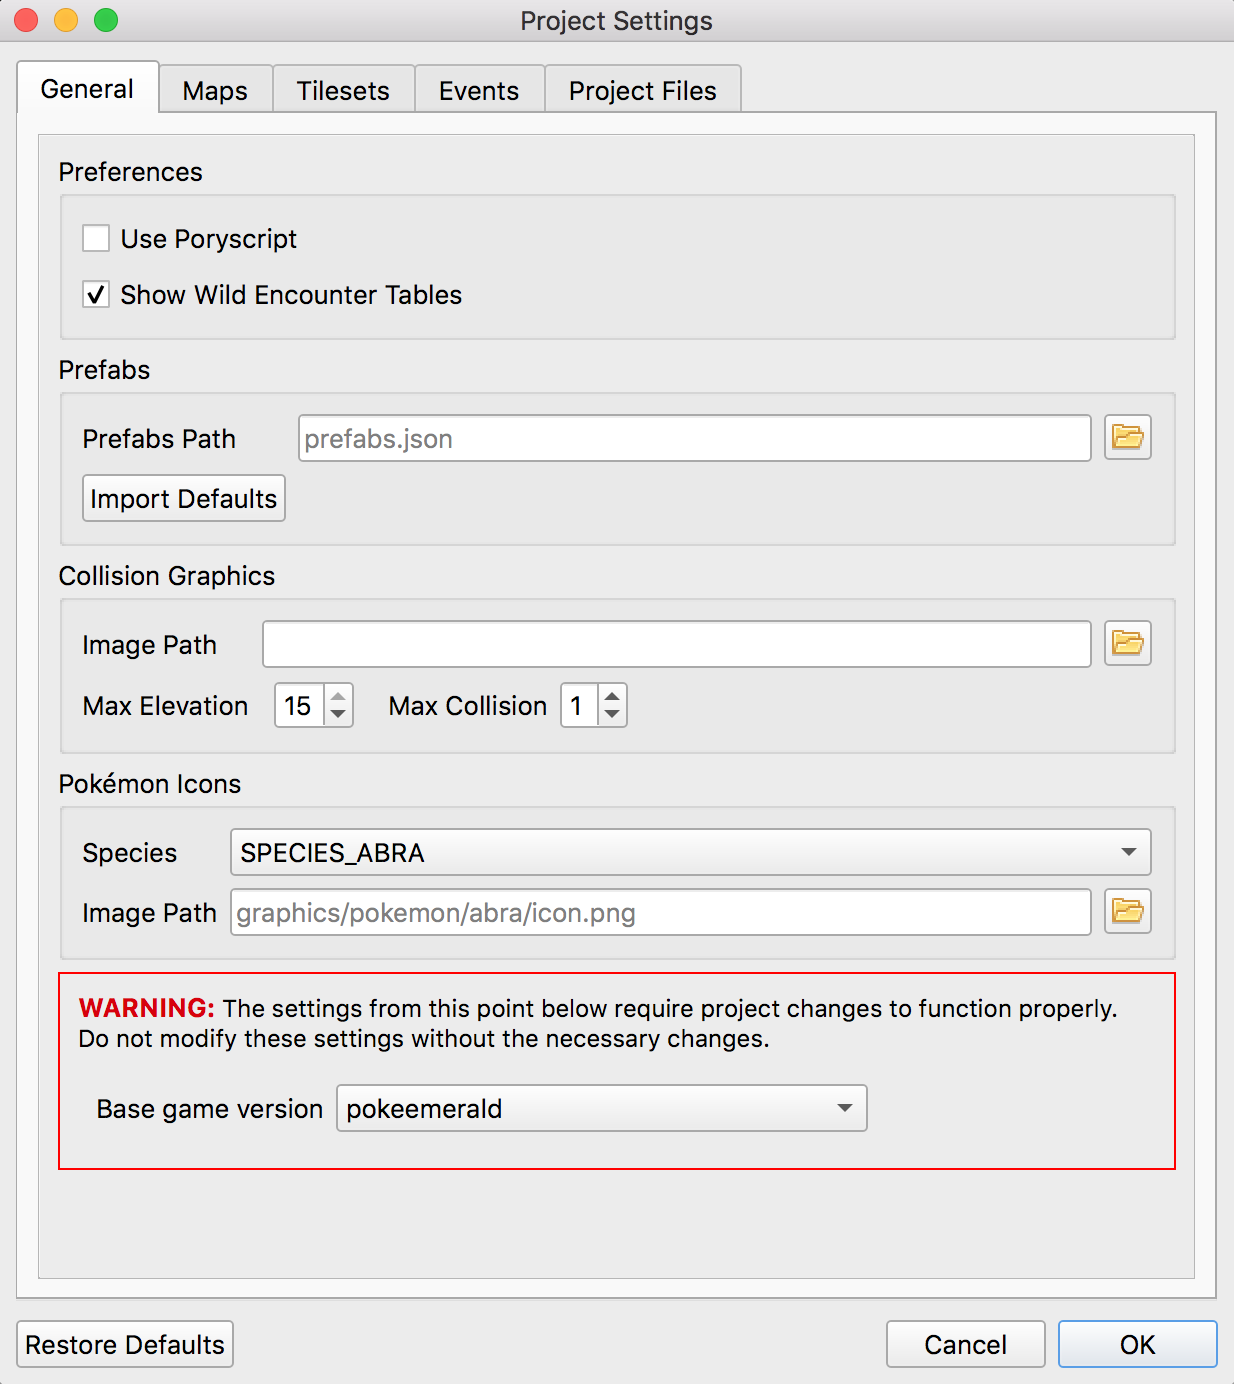
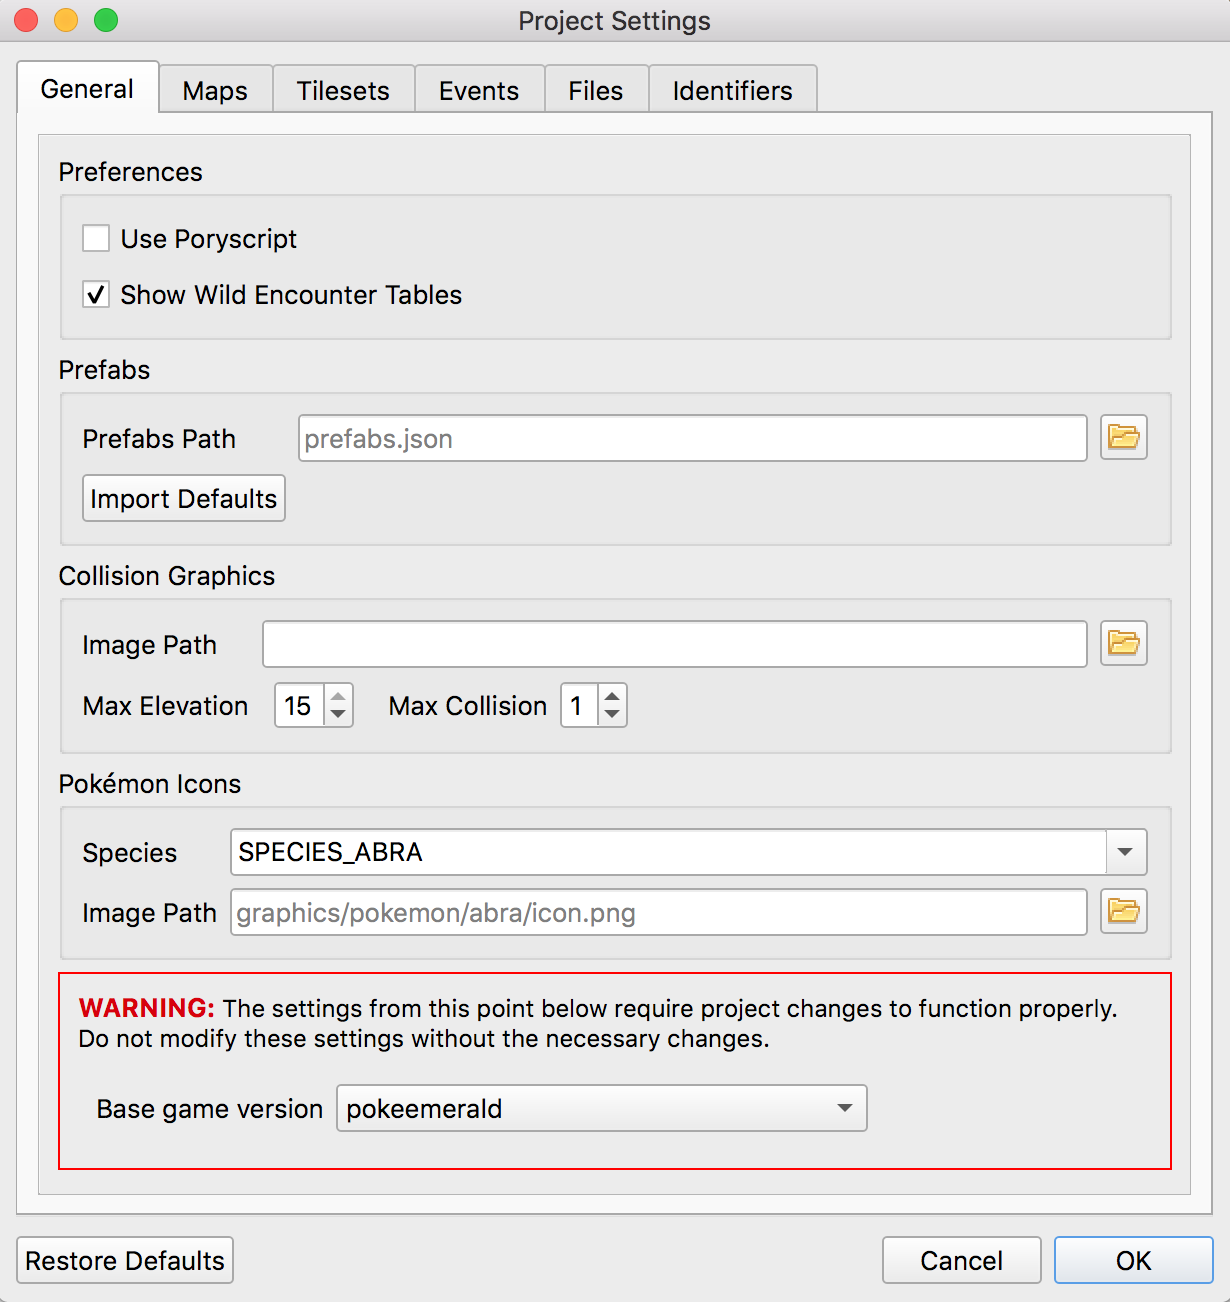
Add new settings to manual

diff --git a/docsrc/manual/settings-and-options.rst b/docsrc/manual/settings-and-options.rst
@@ -23,7 +23,7 @@ Project settings
    * :ref:`Maps <maps>`
    * :ref:`Tilesets <tilesets>`
    * :ref:`Events <events>`
-   * :ref:`Project Files <project-files>`
+   * :ref:`Files & Identifiers <files-identifiers>`
 
 A config file for project-specific settings is also created when opening a project in porymap for the first time. It is stored in your project root as ``porymap.project.cfg``. You may want to force commit this file so that other users will automatically have access to your project settings.
 
@@ -98,32 +98,38 @@ Maps
 .. figure:: images/settings-and-options/tab-maps.png
    :alt: Maps tab
 
-Border Metatiles
-   This is list of metatile ID values that will be used to fill the border on new maps. The spin boxes correspond to the top-left, top-right, bottom-left, and bottom-right border metatiles respectively.
+Map Data Defaults
+   Border Metatiles
+      This is list of metatile ID values that will be used to fill the border on new maps. The spin boxes correspond to the top-left, top-right, bottom-left, and bottom-right border metatiles respectively.
 
-   If ``Enable Custom Border Size`` is checked, this will instead be a comma-separated list of metatile ID values that will be used to fill the border on new maps. Values in the list will be read sequentially to fill the new border left-to-right top-to-bottom. If the number of metatiles in the border for a new map is not the same as the number of values in the list then the border will be filled with metatile ID ``0x000`` instead.
+      If ``Enable Custom Border Size`` is checked, this will instead be a comma-separated list of metatile ID values that will be used to fill the border on new maps. Values in the list will be read sequentially to fill the new border left-to-right top-to-bottom. If the number of metatiles in the border for a new map is not the same as the number of values in the list then the border will be filled with metatile ID ``0x000`` instead.
 
-   Defaults to ``0x014``, ``0x015``, ``0x01C``, ``0x01D`` for ``pokefirered``, and ``0x1D4``, ``0x1D5``, ``0x1DC``, ``0x1DD`` for other versions.
+      Defaults to ``0x014``, ``0x015``, ``0x01C``, ``0x01D`` for ``pokefirered``, and ``0x1D4``, ``0x1D5``, ``0x1DC``, ``0x1DD`` for other versions.
 
-Fill Metatile
-   This is the metatile ID value that will be used to fill new maps.
+   Metatile ID
+      This is the metatile ID value that will be used to fill new maps.
 
-   Defaults to ``0x1``.
+      Defaults to ``0x1``.
 
-Elevation
-   This is the elevation that will be used to fill new maps. It will also be used to set the default selection on the Collision tab when a map is opened.
+   Collision
+      This is the collision value that will be used to fill new maps. It will also be used to set the default selection on the Collision tab when the project is first opened.
 
-   Defaults to ``3``.
+      Defaults to ``0``.
 
-Collision
-   This is the collision that will be used to fill new maps. It will also be used to set the default selection on the Collision tab when a map is opened.
+   Elevation
+      This is the elevation value that will be used to fill new maps. It will also be used to set the default selection on the Collision tab when the project is first opened.
 
-   Defaults to ``0``.
+      Defaults to ``3``.
 
-Create separate text file
-   If this is checked, a ``text.inc`` (or ``text.pory``) file will be created alongside new maps.
+   Create separate text file
+      If this is checked, a ``text.inc`` (or ``text.pory``) file will be created alongside new maps.
 
-   Defaults to ``unchecked`` for ``pokeemerald`` and ``checked`` for other versions.
+      Defaults to ``unchecked`` for ``pokeemerald`` and ``checked`` for other versions.
+
+Map Data Layout
+   Each of these three settings are bit masks that will be used to read and write an attribute of the data that makes up each map space (metatile ID, collision, and elevation). A warning will be displayed if any of the masks overlap. Their values may be read from ``#define`` s in your project, in which case editing will be disabled and you can change their values by modifying them in your project.
+
+   Default to being read from ``MAPGRID_METATILE_ID_MASK``, ``MAPGRID_COLLISION_MASK``, and ``MAPGRID_ELEVATION_MASK``. If they can't be read, they default to ``0x3FF``, ``0xC00``, and ``0xF000`` respectively.
 
 Enable 'Floor Number'
    If this is checked, a ``Floor Number`` option will become available on the ``Header`` tab and on the new map prompt. For more information see `Editing Map Headers <https://huderlem.github.io/porymap/manual/editing-map-header.html>`_.
@@ -172,30 +178,27 @@ Attributes size
 Attribute masks
    Each of these four settings are bit masks that will be used to read and write a specific metatile attribute from the metatile attributes data. If you are instead importing metatile attribute data from AdvanceMap, a default mask value will be used to read the data, and the mask value specified here will be used to write the new file.
 
-   If any of the mask values are set to ``0x0``, the corresponding option in the Tileset Editor will be removed. The maximum for all the attribute masks is determined by the Attributes size setting.
+   If any of the mask values are set to ``0x0``, the corresponding option in the Tileset Editor will be removed. The maximum for all the attribute masks is determined by the Attributes size setting. A warning will be displayed if any of the masks overlap.
 
    - Metatile Behavior mask
       This is the mask value for the ``Metatile Behavior`` metatile attribute.
 
-      Defaults to ``0x1FF`` for ``pokefirered``, and ``0xFF`` for other versions.
+      Defaults to being read from ``sMetatileAttrMasks`` or ``METATILE_ATTR_BEHAVIOR_MASK``. If these can't be read, defaults to ``0x1FF`` for ``pokefirered``, and ``0xFF`` for other versions.
 
    - Layer Type mask
       This is the mask value for the ``Layer Type`` metatile attribute. If the value is set to ``0x0`` the ``Layer Type`` option will be disabled in the Tileset Editor, and all metatiles will be treated in the editor as if they had the ``Normal`` layer type.
 
-      Defaults to ``0x60000000`` for ``pokefirered`` and ``0xF000`` for other versions.
+      Defaults to being read from ``sMetatileAttrMasks`` or ``METATILE_ATTR_LAYER_MASK``. If these can't be read, defaults to ``0x60000000`` for ``pokefirered``, and ``0xF000`` for other versions.
 
    - Encounter Type mask
       This is the mask value for the ``Encounter Type`` metatile attribute.
 
-      Defaults to ``0x7000000`` for ``pokefirered`` and ``0x0`` for other versions.
+      Defaults to being read from ``sMetatileAttrMasks``. If this can't be read, defaults to ``0x7000000`` for ``pokefirered``, and ``0x0`` for other versions.
 
    - Terrain Type mask
       This is the mask value for the ``Terrain Type`` metatile attribute.
 
-      Defaults to ``0x3E00`` for ``pokefirered`` and ``0x0`` for other versions.
-
-   .. warning::
-      If any of the metatile attribute masks have overlapping or discontinous bits they may behave in unexpected ways. A warning will be logged in the Porymap log file if this happens
+      Defaults to being read from ``sMetatileAttrMasks``. If this can't be read, defaults to ``0x3E00`` for ``pokefirered``, and ``0x0`` for other versions.
 
 Output 'callback' and 'isCompressed' fields
    If these are checked, then ``callback`` and ``isCompressed`` fields will be output in the C data for new tilesets. Their default values will be ``NULL`` and ``TRUE``, respectively. 
@@ -216,6 +219,11 @@ Default Icons
    Events in the ``Objects`` group will only use this icon if there are no graphics associated with their ``Sprite`` field.
 
    The filepaths default to empty, which will use `Porymap's original icons <https://github.com/huderlem/porymap/blob/master/resources/images/Entities_16x16.png>`_.
+
+Warp Behaviors
+   By default, Warp Events only function as exits if they're positioned on a metatile whose Metatile Behavior is treated specially in your project's code. If any Warp Events are positioned on a metatile that doesn't have one of these behaviors they will display a warning. Here you can disable that warning, or edit the list of behavior names that will silence the warning.
+
+   Defaults to ``unchecked``, i.e. the warning is enabled. The list of behaviors is initially populated with all the vanilla warp behavior names across pokeemerald, pokefirered, and pokeruby.
 
 Enable Clone Objects
    If this is checked Clone Object Events will be available on the ``Events`` tab. For more information see `Clone Object Events <https://huderlem.github.io/porymap/manual/editing-map-events.html#clone-object-events>`_.
@@ -248,15 +256,22 @@ Enable 'Repsawn Map/NPC' for Heal Locations
    Defaults to ``checked`` for ``pokefirered`` and ``unchecked`` for other versions.
 
 
-.. _project-files:
+.. _files-identifiers:
 
-Project Files
--------------
+Files & Identifiers
+-------------------
 
-.. figure:: images/settings-and-options/tab-project-files.png
-   :alt: Project Files tab
+.. figure:: images/settings-and-options/tab-files.png
+   :alt: Files tab
 
-This is a list of the files and folders Porymap expects from your project. Each can be overridden by typing a new path or selecting a file/folder with the folder button. If the file/folder doesn't exist when the project is loaded then the default path will be used instead.
+.. figure:: images/settings-and-options/tab-identifiers.png
+   :alt: Identifiers tab
 
-For more information on each of these files/folders, see `Project Files <https://huderlem.github.io/porymap/manual/project-files.html>`_.
+These two tabs provide a way to override the filepaths and symbol/macro names Porymap expects to find in your project.
+
+For ``Files``, each can be overridden by typing a new path or selecting a file/folder with the |button-folder| button. If the file/folder doesn't exist when the project is loaded then the default path will be used instead.
+
+For ``Identifiers``, each can be overridden by typing a new name in the line edit. Overrides with ``regex`` in the name support the `regular expression syntax <https://perldoc.perl.org/perlre>`_ used by Qt.
+
+For more information on what each of these overrides does, see `Project Files <https://huderlem.github.io/porymap/manual/project-files.html>`_.
 

diff --git a/docsrc/manual/editing-map-events.rst b/docsrc/manual/editing-map-events.rst
@@ -110,7 +110,7 @@ Target Map
 Warp Events
 -----------
 
-Warp events are how the player is able to warp to other maps, such as entering a building.  Double-clicking on a warp will automatically open the destination map and select the destination warp.  This makes it very easy to navigate around in Porymap.
+Warp events are how the player is able to warp to other maps, such as entering a building.  Double-clicking on a warp will automatically open the destination map and select the destination warp.  This makes it very easy to navigate around in Porymap. Warps need to be on specific metatiles to function as an exit; a warning will appear if the warp event is not on one of these exits.
 
 .. figure:: images/editing-map-events/event-warp.png
     :alt: Warp Event Properties
